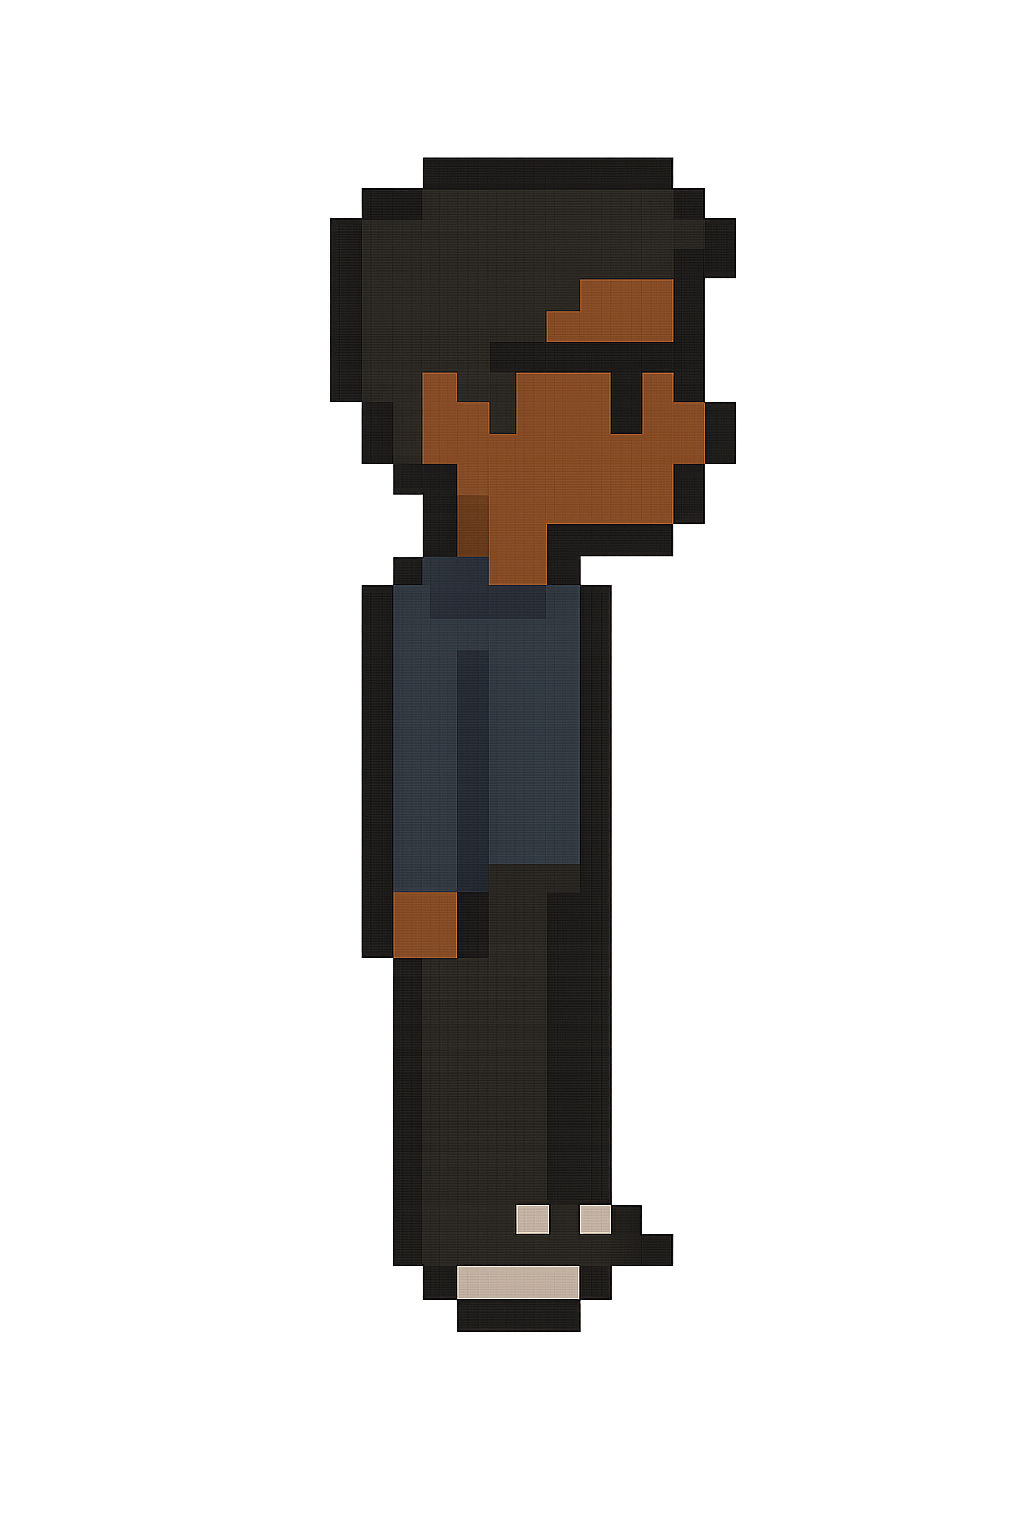
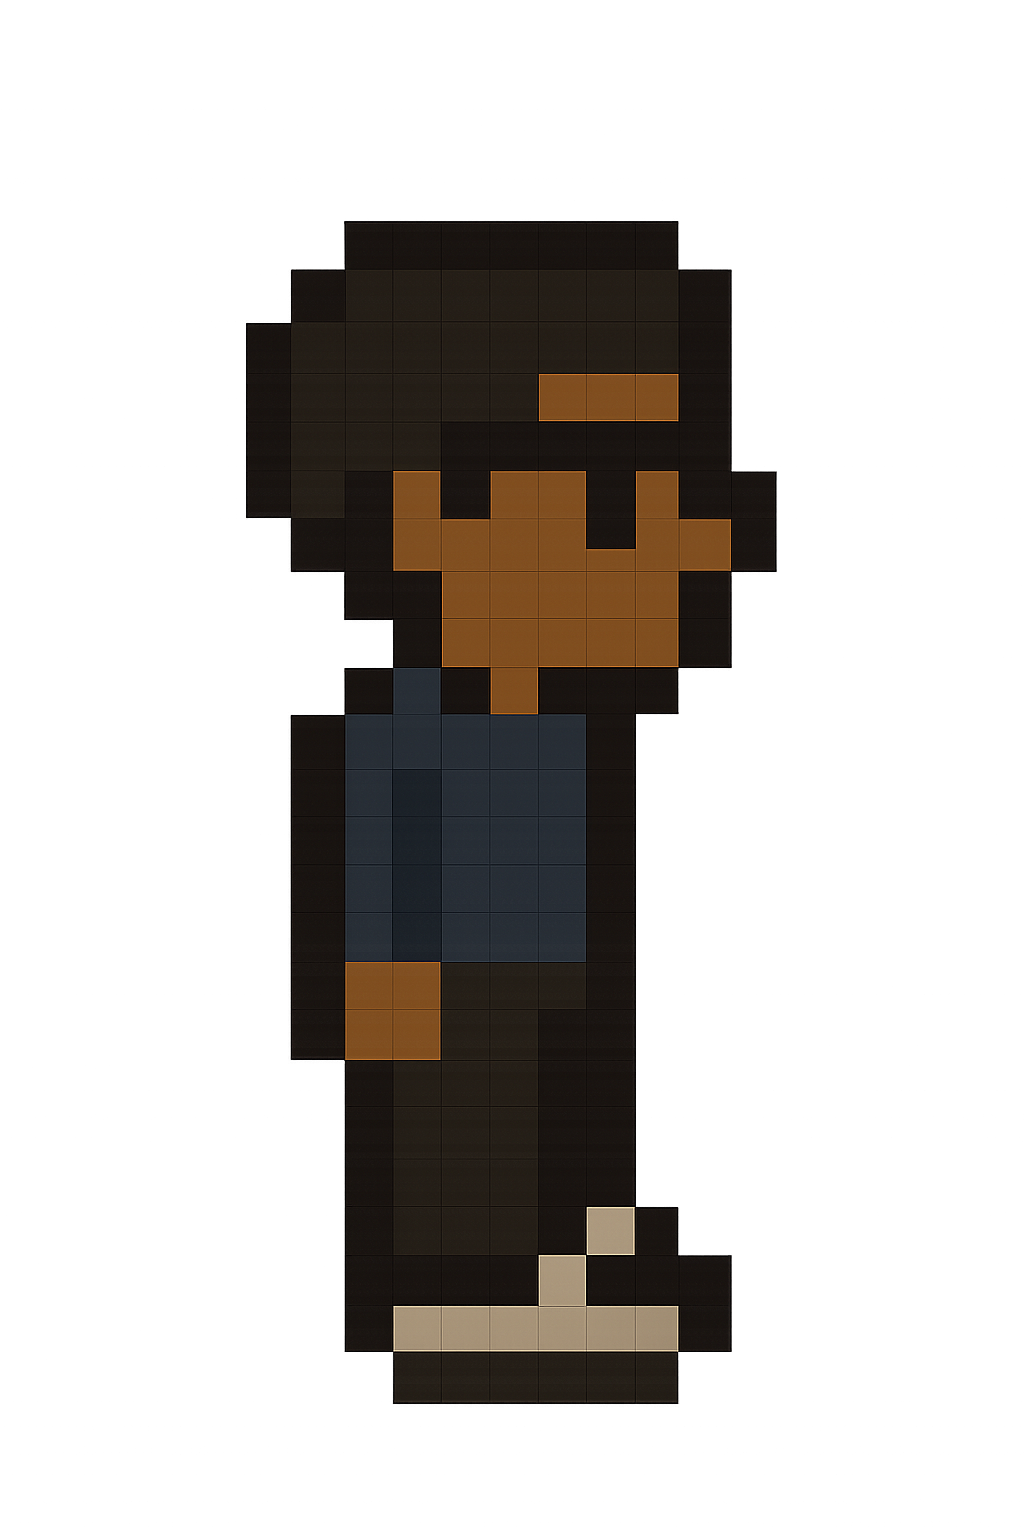
andrea

Changed region(s): [[0.2188, 0.0938, 0.7812, 0.9375]]

diff --git a/library/sdl_wrapper.c b/library/sdl_wrapper.c
@@ -287,8 +287,6 @@ SDL_Rect sdl_get_body_bounding_box(body_t *body) {
   double max_x = -__DBL_MAX__;
   double max_y = -__DBL_MAX__;
 
-  SDL_Rect *rect = malloc(sizeof(SDL_Rect));
-
   for (size_t i = 0; i < list_size(vertexes); i++) {
     vector_t *vertex = list_get(vertexes, i);
 
@@ -305,13 +303,6 @@ SDL_Rect sdl_get_body_bounding_box(body_t *body) {
       max_y = vertex->y;
     }
 
-    // vector_t x = {max_x, min_x};
-    // vector_t y = {max_y, min_y};
-
-    // min_x = xpixel.x;
-    // min_y = ypixel.x;
-    // max_x = xpixel.y;
-    // max_y = ypixel.y;
   }
 
   vector_t topleft = {min_x, max_y};
@@ -320,10 +311,12 @@ SDL_Rect sdl_get_body_bounding_box(body_t *body) {
   vector_t cor_tl = get_window_position(topleft, get_window_center());
   vector_t cor_br = get_window_position(botright, get_window_center());
 
-  rect->x = cor_tl.x;
-  rect->y = cor_tl.y;
-  rect->w = cor_br.x - cor_tl.x;
-  rect->h = cor_br.y - cor_tl.y;
+  SDL_Rect rect = {
+      .x = cor_tl.x,
+      .y = cor_tl.y,
+      .w = cor_br.x - cor_tl.x,
+      .h = cor_br.y - cor_tl.y
+    };
 
-  return *rect;
+    return rect;
 }

diff --git a/demo/game.c b/demo/game.c
@@ -21,6 +21,8 @@
 #include "sdl_wrapper.h"
 // moved background positions to background.c
 
+double delay_time = 0.0;
+
 void start_game(state_t *state) {
   if (state->is_game_over) {
     state->current_game_screen = HOME;
@@ -187,18 +189,18 @@ bool emscripten_main(state_t *state) {
     render_screen("game over", &viewport);
     sdl_show();
 
-    // double time = time_since_last_tick();
-    // state->delay_time += time;
+    double time = time_since_last_tick();
+    delay_time += time;
 
-    // if (state->delay_time >= 1.0) {
-    //   state->show_shop = true;
-    //   state->delay_time = 0;
-    // }
+    if (delay_time >= 2.0) {
+      state->show_shop = true;
+      delay_time = 0;
+    }
   } // game over screen
 
-  // if (state->show_shop) {
-  //   render_screen("shop", &viewport);
-  // } // shop screen
+  if (state->show_shop) {
+    render_screen("shop", &viewport);
+  } // shop screen
 
   sdl_show();
   return false;

diff --git a/library/constants.c b/library/constants.c
@@ -6,7 +6,7 @@ const vector_t MAX = {1000, 500};
 const vector_t LEADERBOARD_SIZE = {100, 50};
 
 // TODO: Change
-const vector_t PLAYER_DIMS = {20, 40};
+const vector_t PLAYER_DIMS = {40, 80};
 const vector_t PLAYER_CENTER_POS = {500, 50};
 const char *PLAYER_INFO = "player";
 
